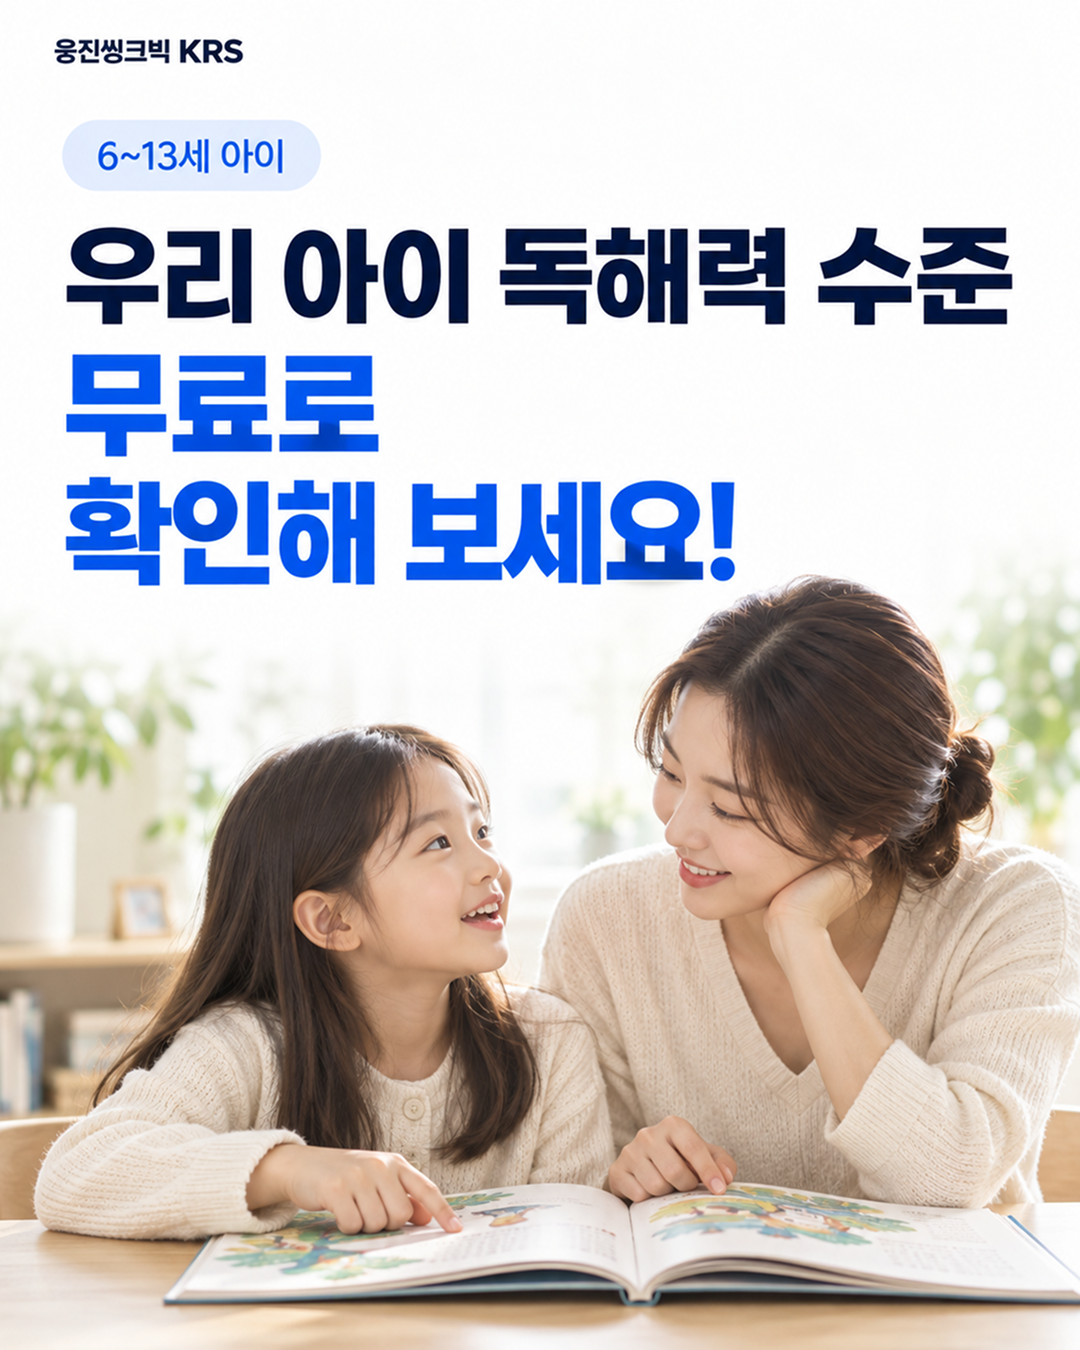
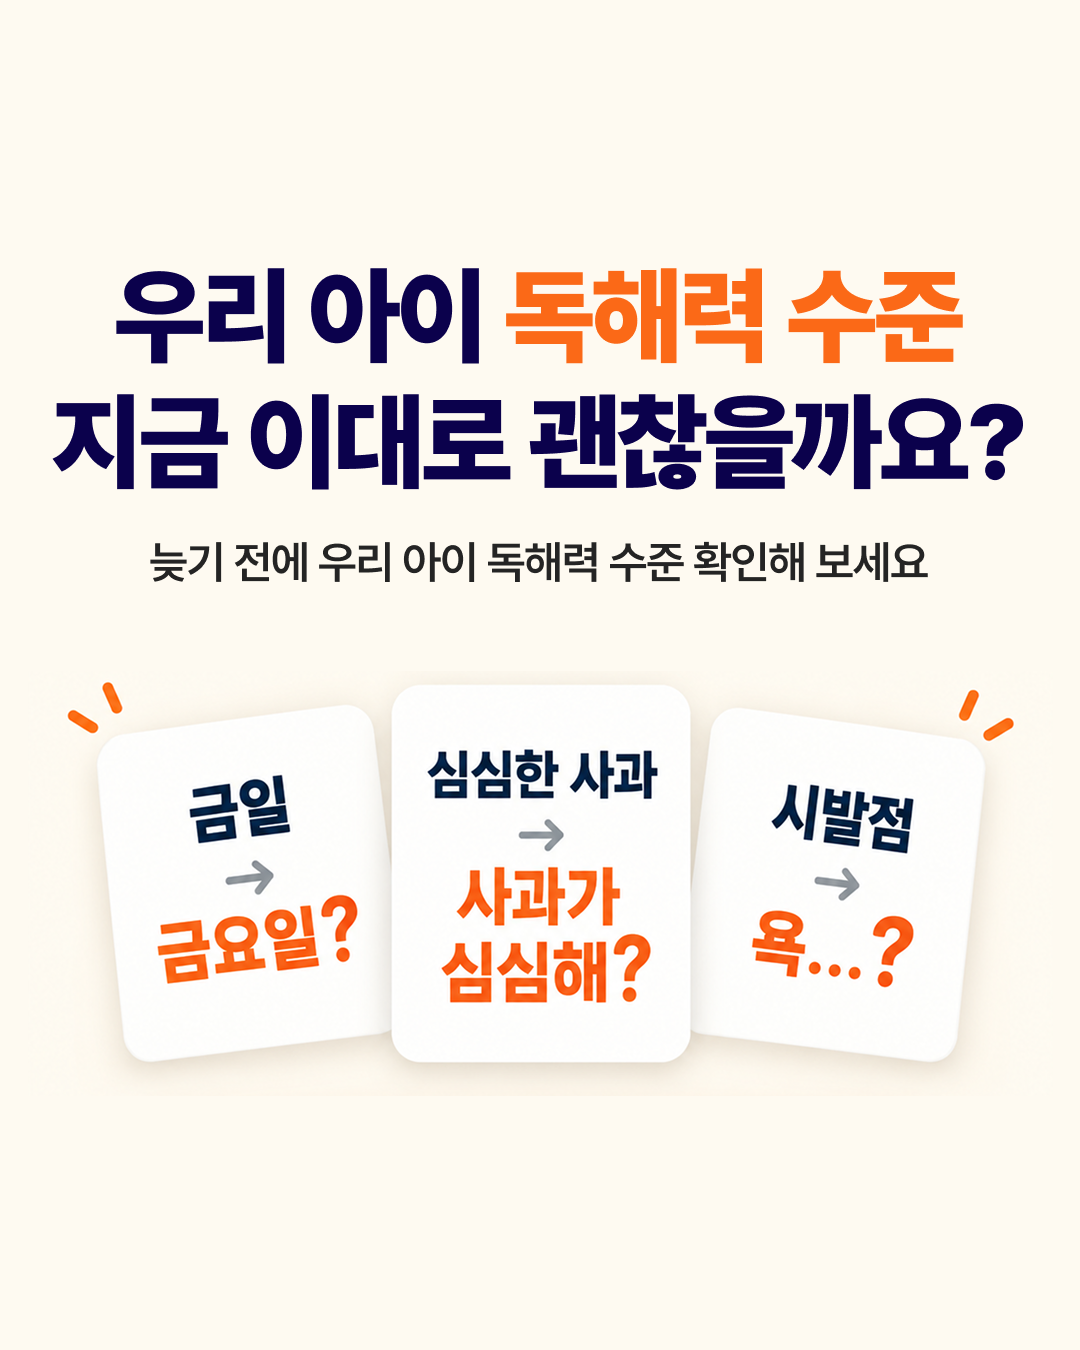
Add files via upload

diff --git a/KRS.html b/KRS.html
@@ -67,24 +67,6 @@
     }
     .landing-image { width: 100%; display: block; margin: 0 auto; height: auto; }
 
-    /* ▼▼ 이미지 사이 CTA ▼▼ */
-    .mid-cta-wrap {
-      padding: 20px 16px;
-      background: #fff;
-      text-align: center;
-    }
-    .mid-cta-btn {
-      appearance: none; border: 0; cursor: pointer; width: 100%;
-      border-radius: 14px; padding: 18px 20px; font-weight: 800; font-size: 17px;
-      color: #0b1a3a;
-      background: linear-gradient(0deg, var(--brand-yellow), #ffe47a);
-      box-shadow: 0 6px 16px rgba(0,0,0,.12);
-      transition: transform .15s ease;
-    }
-    .mid-cta-btn:active { transform: translateY(1px); }
-    .mid-cta-sub { margin-top: 10px; font-size: 13px; color: #666; }
-    /* ▲▲ 이미지 사이 CTA ▲▲ */
-
     .floating-cta {
       position: fixed; left: 50%; right: auto; bottom: 0; z-index: 9999;
       transform: translateX(-50%);
@@ -267,19 +249,10 @@
     <!-- 첫 번째 랜딩 이미지 -->
     <img src="KRS_1.png" alt="독해력 무료진단 랜딩페이지" class="landing-image" />
 
-    <!-- 이미지 사이 CTA: 무료 진단받기 -->
-    <div class="mid-cta-wrap">
-      <button id="mid-cta-btn" class="mid-cta-btn" aria-label="무료 진단받기 - 신청 폼으로 이동">무료 진단받기</button>
-      <div class="mid-cta-sub">선착순 30명 한정 무료! 지금 신청하세요!</div>
-    </div>
-
-    <!-- 두 번째 랜딩 이미지 -->
-    <img src="KRS_2.png" alt="독해력 무료진단 랜딩페이지" class="landing-image" />
-
     <!-- 신청폼 앵커 -->
     <span id="apply-anchor"></span>
 
-    <!-- Tenping 폼 -->
+    <!-- Tenping 폼 (KRS_1 바로 아래) -->
     <tenping class="adsbytenping" 
       style="width:100%; margin:0 auto; display:block;"
       tenping-ad-type="CInmlFSNPJoo9rBMK%2brlTg%3d%3d"
@@ -293,6 +266,9 @@
       tenping-ad-theme="blue">
     </tenping>
     <script async src="//ads.tenping.kr/scripts/adsbytenping.min.js"></script>   
+
+    <!-- 두 번째 랜딩 이미지 -->
+    <img src="KRS_2.png" alt="독해력 무료진단 랜딩페이지" class="landing-image" />
 
     <!-- 최근 등록 현황 테이블 -->
     <section class="recent-signups" id="recent-signups" aria-label="최근 등록 현황">
@@ -362,10 +338,6 @@
       }
 
       btn.addEventListener('click', scrollToApply);
-
-      // 이미지 사이 "무료 진단받기" CTA도 동일하게 하단 텐핑폼으로 이동
-      const midBtn = document.getElementById('mid-cta-btn');
-      if (midBtn) midBtn.addEventListener('click', scrollToApply);
 
       if ('IntersectionObserver' in window && form) {
         const io = new IntersectionObserver((entries) => {
